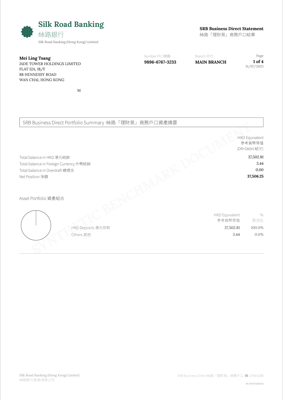
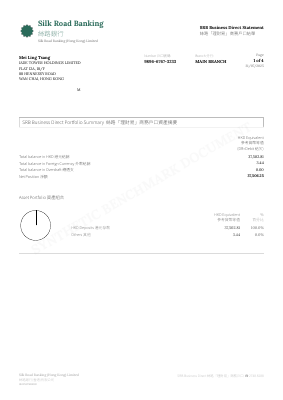
Publish bsb-002..bsb-005, correct release metadata, rename column schema fields
- manifest.json: releasedCount 1 -> 5; released + pdfChecksum now correct for
  bsb-001..bsb-005 (previously only bsb-001 was marked released, while all five
  PDFs were already present in the repo).
- statement-info.json: published now reflects actual release state (was false
  for every statement, including released ones).
- Schema rename (breaking): columns[].fieldType -> columns[].role, and
  numberFormat.negativeFormat -> numberFormat.directionDerivation.
- Refresh bsb-004/bsb-005 preview images.
- Link the dataset on Hugging Face.

diff --git a/README.md b/README.md
@@ -1,10 +1,10 @@
 # Bankstatemently Open Benchmark
 
 <!-- SUBTITLE_START -->
-A standardized benchmark for evaluating bank and credit card statement PDF parsers. 15 synthetic statements across 3 difficulty tiers, 12 countries, 8 languages, and 40 parsing challenges.
+A standardized benchmark for evaluating bank and credit card statement PDF parsers. 15 synthetic statements across 3 difficulty tiers, 12 countries, 8 languages, and 41 parsing challenges.
 <!-- SUBTITLE_END -->
 
-**[Browse the dataset](https://bankstatemently.com/benchmark)** | **[Challenge browser](https://bankstatemently.com/benchmark/challenges)** | **[API docs](https://bankstatemently.com/developers/api)**
+**[Browse the dataset](https://bankstatemently.com/benchmark)** | **[Challenge browser](https://bankstatemently.com/benchmark/challenges)** | **[API docs](https://bankstatemently.com/developers/api)** | **[Also on Hugging Face](https://huggingface.co/datasets/Bankstatemently/bank-statement-parsing-benchmark)**
 
 ## Why this exists
 
@@ -71,7 +71,7 @@ manifest.json                  # Dataset version, checksums, challenge index
 | bsb-009 | ![intermediate](https://img.shields.io/badge/intermediate-fbbf24?style=flat-square) | 🇬🇧 GB | EN | Bank | 1 | 35 | Credit/debit columns, Posting dates, Balance validation, Date format variations, Currency symbols, No table boundaries | *Coming soon* |
 | bsb-010 | ![intermediate](https://img.shields.io/badge/intermediate-fbbf24?style=flat-square) | 🇮🇳 IN | EN | Bank | 25 | 500 | Credit/debit columns, Balance validation, Payment method column, Date format variations, Balance carry-forward, Date carry-forward | *Coming soon* |
 | bsb-011 | ![advanced](https://img.shields.io/badge/advanced-f87171?style=flat-square) | 🇭🇰 HK | EN/ZH | Bank | 2 | 35 | Bilingual headers, Mixed-locale formatting, Credit/debit columns, Multi-currency, Multiple accounts, End-of-day balance | *Coming soon* |
-| bsb-012 | ![advanced](https://img.shields.io/badge/advanced-f87171?style=flat-square) | 🇸🇬 SG | ZH | Credit Card | 1 | 33 | Inverted CC sign convention, Fee/interest sections, Zero-value rows, Partial-year dates, Scanned PDF, Header/footer noise | *Coming soon* |
+| bsb-012 | ![advanced](https://img.shields.io/badge/advanced-f87171?style=flat-square) | 🇸🇬 SG | ZH | Credit Card | 1 | 31 | Inverted CC sign convention, Fee/interest sections, Zero-value rows, Partial-year dates, Scanned PDF, Header/footer noise | *Coming soon* |
 | bsb-013 | ![advanced](https://img.shields.io/badge/advanced-f87171?style=flat-square) | 🇰🇿 KZ | EN | Bank | 2 | 35 | Multi-currency, Dual-currency display, Credit/debit columns, Fee column, Multiple accounts | *Coming soon* |
 | bsb-014 | ![advanced](https://img.shields.io/badge/advanced-f87171?style=flat-square) | 🇹🇭 TH | TH/EN | Bank | 1 | 28 | Buddhist era dates, Bilingual headers, Credit/debit columns, Payment method column, Balance validation | *Coming soon* |
 | bsb-015 | ![advanced](https://img.shields.io/badge/advanced-f87171?style=flat-square) | 🇲🇾 MY | EN/MS | Credit Card | 1 | 20 | Bilingual headers, Mixed-locale formatting, Posting dates, Header-only currency symbol, Multiple tables, Scanned PDF, Trailing sign amounts | *Coming soon* |
@@ -99,46 +99,47 @@ Each statement exercises specific parsing challenges found in real-world bank st
 <!-- CHALLENGES_TABLE_START -->
 | Challenge | Description | Statements |
 |-----------|-------------|:--:|
-| `balance-carry-forward-rows` | Phantom Balance Rows on Every Page | 1 |
-| `balance-validation` | Running Balance Cross-Check | 9 |
-| `bilingual-descriptions` | Bilingual Transaction Descriptions | 0 |
-| `bilingual-headers` | Bilingual Column Headers | 3 |
-| `buddhist-era-dates` | Buddhist Era Calendar (Year +543) | 1 |
-| `credit-debit-columns` | Separate Credit & Debit Columns | 10 |
-| `currency-symbol-amounts` | Currency Symbols Breaking Numeric Parsing | 2 |
-| `currency-symbol-header-only` | Currency Only Shown in Column Header | 1 |
-| `date-carry-forward` | Blank Dates for Same-Day Transactions | 1 |
-| `date-format-variations` | Inconsistent Date Formats | 4 |
-| `date-time-dual-column` | Column Mixes Times and Dates | 1 |
-| `date-with-time` | Times Mixed Into Date Column | 0 |
-| `debit-credit-appearance` | Misleading Debit/Credit Signs | 0 |
-| `dual-balance-timeline` | Dual Balance Timeline | 1 |
-| `dual-currency-display` | Two Currencies Shown Side-by-Side | 1 |
-| `end-of-day-balance` | Sparse Balance Column (End-of-Day Only) | 1 |
-| `fee-and-interest-sections` | Fees & Interest Buried in Separate Sections | 1 |
-| `fee-column` | Fees in a Separate Column | 1 |
-| `header-footer-noise` | Page Headers & Footers Mixed with Data | 1 |
-| `inverted-cc-sign-convention` | Charges Shown as Negative (Inverted Signs) | 2 |
-| `mixed-locale-formatting` | Mixed Locale Formatting | 2 |
-| `multi-currency` | Multiple Currencies in One Table | 2 |
-| `multi-line-descriptions` | Multi-Line Text Within a Cell | 2 |
-| `multiple-accounts-multiple-tables` | Separate Transaction Tables per Account | 1 |
-| `multiple-accounts-single-table` | Multiple Accounts Mixed in One Table | 2 |
-| `multiple-tables` | Transactions Split Across Multiple Tables | 2 |
-| `no-table-boundaries` | No Visible Table Lines or Borders | 1 |
-| `non-standard-page-size` | Non-Standard Page Size | 1 |
-| `partial-year-dates` | Missing Year in Dates | 4 |
-| `payment-method-column` | Payment Method/Rails Information | 2 |
-| `posting-date-selection` | Multiple Dates per Transaction | 6 |
-| `reverse-chronological-order` | Transactions Listed Newest-First | 0 |
-| `scanned-pdf-text` | No Selectable Text (Scanned PDF) | 3 |
-| `separate-counterparty-column` | Separate Counterparty Column | 1 |
-| `split-date-columns-merged` | Date Split Across Day/Month Columns | 1 |
-| `split-embedded-date-column` | Date Hidden Inside Description Text | 1 |
-| `trailing-sign-amounts` | Plus/Minus Sign After the Amount | 1 |
-| `transaction-continuation` | Description Continuation Rows | 1 |
-| `two-digit-year-dates` | Abbreviated Year in Dates | 1 |
-| `zero-value-informational-rows` | Zero-Value Fee & Interest Lines | 1 |
+| [`balance-carry-forward-rows`](https://bankstatemently.com/benchmark/challenges#balance-carry-forward-rows) | Phantom Balance Rows on Every Page | 1 |
+| [`balance-validation`](https://bankstatemently.com/benchmark/challenges#balance-validation) | Running Balance Cross-Check | 9 |
+| [`bilingual-descriptions`](https://bankstatemently.com/benchmark/challenges#bilingual-descriptions) | Bilingual Transaction Descriptions | 0 |
+| [`bilingual-headers`](https://bankstatemently.com/benchmark/challenges#bilingual-headers) | Bilingual Column Headers | 3 |
+| [`buddhist-era-dates`](https://bankstatemently.com/benchmark/challenges#buddhist-era-dates) | Buddhist Era Calendar (Year +543) | 1 |
+| [`credit-debit-columns`](https://bankstatemently.com/benchmark/challenges#credit-debit-columns) | Separate Credit & Debit Columns | 10 |
+| [`currency-symbol-amounts`](https://bankstatemently.com/benchmark/challenges#currency-symbol-amounts) | Currency Symbols Breaking Numeric Parsing | 2 |
+| [`currency-symbol-header-only`](https://bankstatemently.com/benchmark/challenges#currency-symbol-header-only) | Currency Only Shown in Column Header | 1 |
+| [`date-carry-forward`](https://bankstatemently.com/benchmark/challenges#date-carry-forward) | Blank Dates for Same-Day Transactions | 1 |
+| [`date-format-variations`](https://bankstatemently.com/benchmark/challenges#date-format-variations) | Inconsistent Date Formats | 4 |
+| [`date-time-dual-column`](https://bankstatemently.com/benchmark/challenges#date-time-dual-column) | Column Mixes Times and Dates | 1 |
+| [`date-with-time`](https://bankstatemently.com/benchmark/challenges#date-with-time) | Times Mixed Into Date Column | 0 |
+| [`debit-credit-appearance`](https://bankstatemently.com/benchmark/challenges#debit-credit-appearance) | Misleading Debit/Credit Signs | 0 |
+| [`dual-balance-timeline`](https://bankstatemently.com/benchmark/challenges#dual-balance-timeline) | Dual Balance Timeline | 1 |
+| [`dual-currency-display`](https://bankstatemently.com/benchmark/challenges#dual-currency-display) | Two Currencies Shown Side-by-Side | 1 |
+| [`end-of-day-balance`](https://bankstatemently.com/benchmark/challenges#end-of-day-balance) | Sparse Balance Column (End-of-Day Only) | 1 |
+| [`fee-and-interest-sections`](https://bankstatemently.com/benchmark/challenges#fee-and-interest-sections) | Fees & Interest Buried in Separate Sections | 1 |
+| [`fee-column`](https://bankstatemently.com/benchmark/challenges#fee-column) | Fees in a Separate Column | 1 |
+| [`header-footer-noise`](https://bankstatemently.com/benchmark/challenges#header-footer-noise) | Page Headers & Footers Mixed with Data | 1 |
+| [`inverted-cc-sign-convention`](https://bankstatemently.com/benchmark/challenges#inverted-cc-sign-convention) | Charges Shown as Negative (Inverted Signs) | 2 |
+| [`mixed-locale-formatting`](https://bankstatemently.com/benchmark/challenges#mixed-locale-formatting) | Mixed Locale Formatting | 2 |
+| [`multi-currency`](https://bankstatemently.com/benchmark/challenges#multi-currency) | Multiple Currencies in One Table | 2 |
+| [`multi-line-descriptions`](https://bankstatemently.com/benchmark/challenges#multi-line-descriptions) | Multi-Line Text Within a Cell | 2 |
+| [`multiple-accounts-multiple-tables`](https://bankstatemently.com/benchmark/challenges#multiple-accounts-multiple-tables) | Separate Transaction Tables per Account | 1 |
+| [`multiple-accounts-single-table`](https://bankstatemently.com/benchmark/challenges#multiple-accounts-single-table) | Multiple Accounts Mixed in One Table | 2 |
+| [`multiple-tables`](https://bankstatemently.com/benchmark/challenges#multiple-tables) | Transactions Split Across Multiple Tables | 2 |
+| [`no-table-boundaries`](https://bankstatemently.com/benchmark/challenges#no-table-boundaries) | No Visible Table Lines or Borders | 1 |
+| [`non-standard-page-size`](https://bankstatemently.com/benchmark/challenges#non-standard-page-size) | Non-Standard Page Size | 1 |
+| [`partial-year-dates`](https://bankstatemently.com/benchmark/challenges#partial-year-dates) | Missing Year in Dates | 4 |
+| [`payment-method-column`](https://bankstatemently.com/benchmark/challenges#payment-method-column) | Payment Method/Rails Information | 2 |
+| [`posting-date-selection`](https://bankstatemently.com/benchmark/challenges#posting-date-selection) | Multiple Dates per Transaction | 6 |
+| [`reverse-chronological-order`](https://bankstatemently.com/benchmark/challenges#reverse-chronological-order) | Transactions Listed Newest-First | 0 |
+| [`scanned-pdf-text`](https://bankstatemently.com/benchmark/challenges#scanned-pdf-text) | No Selectable Text (Scanned PDF) | 3 |
+| [`separate-counterparty-column`](https://bankstatemently.com/benchmark/challenges#separate-counterparty-column) | Separate Counterparty Column | 1 |
+| [`split-date-columns-merged`](https://bankstatemently.com/benchmark/challenges#split-date-columns-merged) | Date Split Across Day/Month Columns | 1 |
+| [`split-embedded-date-column`](https://bankstatemently.com/benchmark/challenges#split-embedded-date-column) | Date Hidden Inside Description Text | 1 |
+| [`trailing-sign-amounts`](https://bankstatemently.com/benchmark/challenges#trailing-sign-amounts) | Plus/Minus Sign After the Amount | 1 |
+| [`transaction-continuation`](https://bankstatemently.com/benchmark/challenges#transaction-continuation) | Description Continuation Rows | 1 |
+| [`two-digit-year-dates`](https://bankstatemently.com/benchmark/challenges#two-digit-year-dates) | Abbreviated Year in Dates | 1 |
+| [`year-boundary-dates`](https://bankstatemently.com/benchmark/challenges#year-boundary-dates) | Dates Crossing Year Boundary | 0 |
+| [`zero-value-informational-rows`](https://bankstatemently.com/benchmark/challenges#zero-value-informational-rows) | Zero-Value Fee & Interest Lines | 1 |
 <!-- CHALLENGES_TABLE_END -->
 
 Explore interactive examples at [bankstatemently.com/benchmark/challenges](https://bankstatemently.com/benchmark/challenges).

diff --git a/datasets/advanced/bsb-014/COMING_SOON.md b/datasets/advanced/bsb-014/COMING_SOON.md
@@ -1,8 +1,8 @@
 # bsb-014
 
-> Thai bilingual statement with Buddhist era dates, payment method column, and partial-year dates
+> Thai bilingual statement with Buddhist era dates, payment method column, and balance validation
 
-**Challenges:** buddhist-era-dates, bilingual-headers, credit-debit-columns, partial-year-dates, payment-method-column, balance-validation
+**Challenges:** buddhist-era-dates, bilingual-headers, credit-debit-columns, payment-method-column, balance-validation
 
 This statement PDF has not been released yet. Check back soon.
 

diff --git a/datasets/advanced/bsb-015/COMING_SOON.md b/datasets/advanced/bsb-015/COMING_SOON.md
@@ -2,7 +2,7 @@
 
 > Malaysian bilingual credit card with header-only currency symbol, scanned PDF, and multiple tables
 
-**Challenges:** bilingual-headers, mixed-locale-formatting, posting-date-selection, currency-symbol-header-only, multiple-tables, scanned-pdf-text
+**Challenges:** bilingual-headers, mixed-locale-formatting, posting-date-selection, currency-symbol-header-only, multiple-tables, scanned-pdf-text, trailing-sign-amounts
 
 This statement PDF has not been released yet. Check back soon.
 

diff --git a/datasets/intermediate/bsb-008/COMING_SOON.md b/datasets/intermediate/bsb-008/COMING_SOON.md
@@ -2,7 +2,7 @@
 
 > Australian bank statement with date-time dual columns, scanned PDF, and date format variations
 
-**Challenges:** date-time-dual-column, date-with-time, date-format-variations, scanned-pdf-text, credit-debit-columns, balance-validation
+**Challenges:** date-time-dual-column, date-format-variations, scanned-pdf-text, credit-debit-columns, balance-validation
 
 This statement PDF has not been released yet. Check back soon.
 

diff --git a/datasets/intermediate/bsb-007/COMING_SOON.md b/datasets/intermediate/bsb-007/COMING_SOON.md
@@ -2,7 +2,7 @@
 
 > Canadian credit card with French headers, split date columns, and cashback sections
 
-**Challenges:** posting-date-selection, split-date-columns-merged, multiple-tables, split-embedded-date-column
+**Challenges:** posting-date-selection, split-date-columns-merged, multiple-tables
 
 This statement PDF has not been released yet. Check back soon.
 
